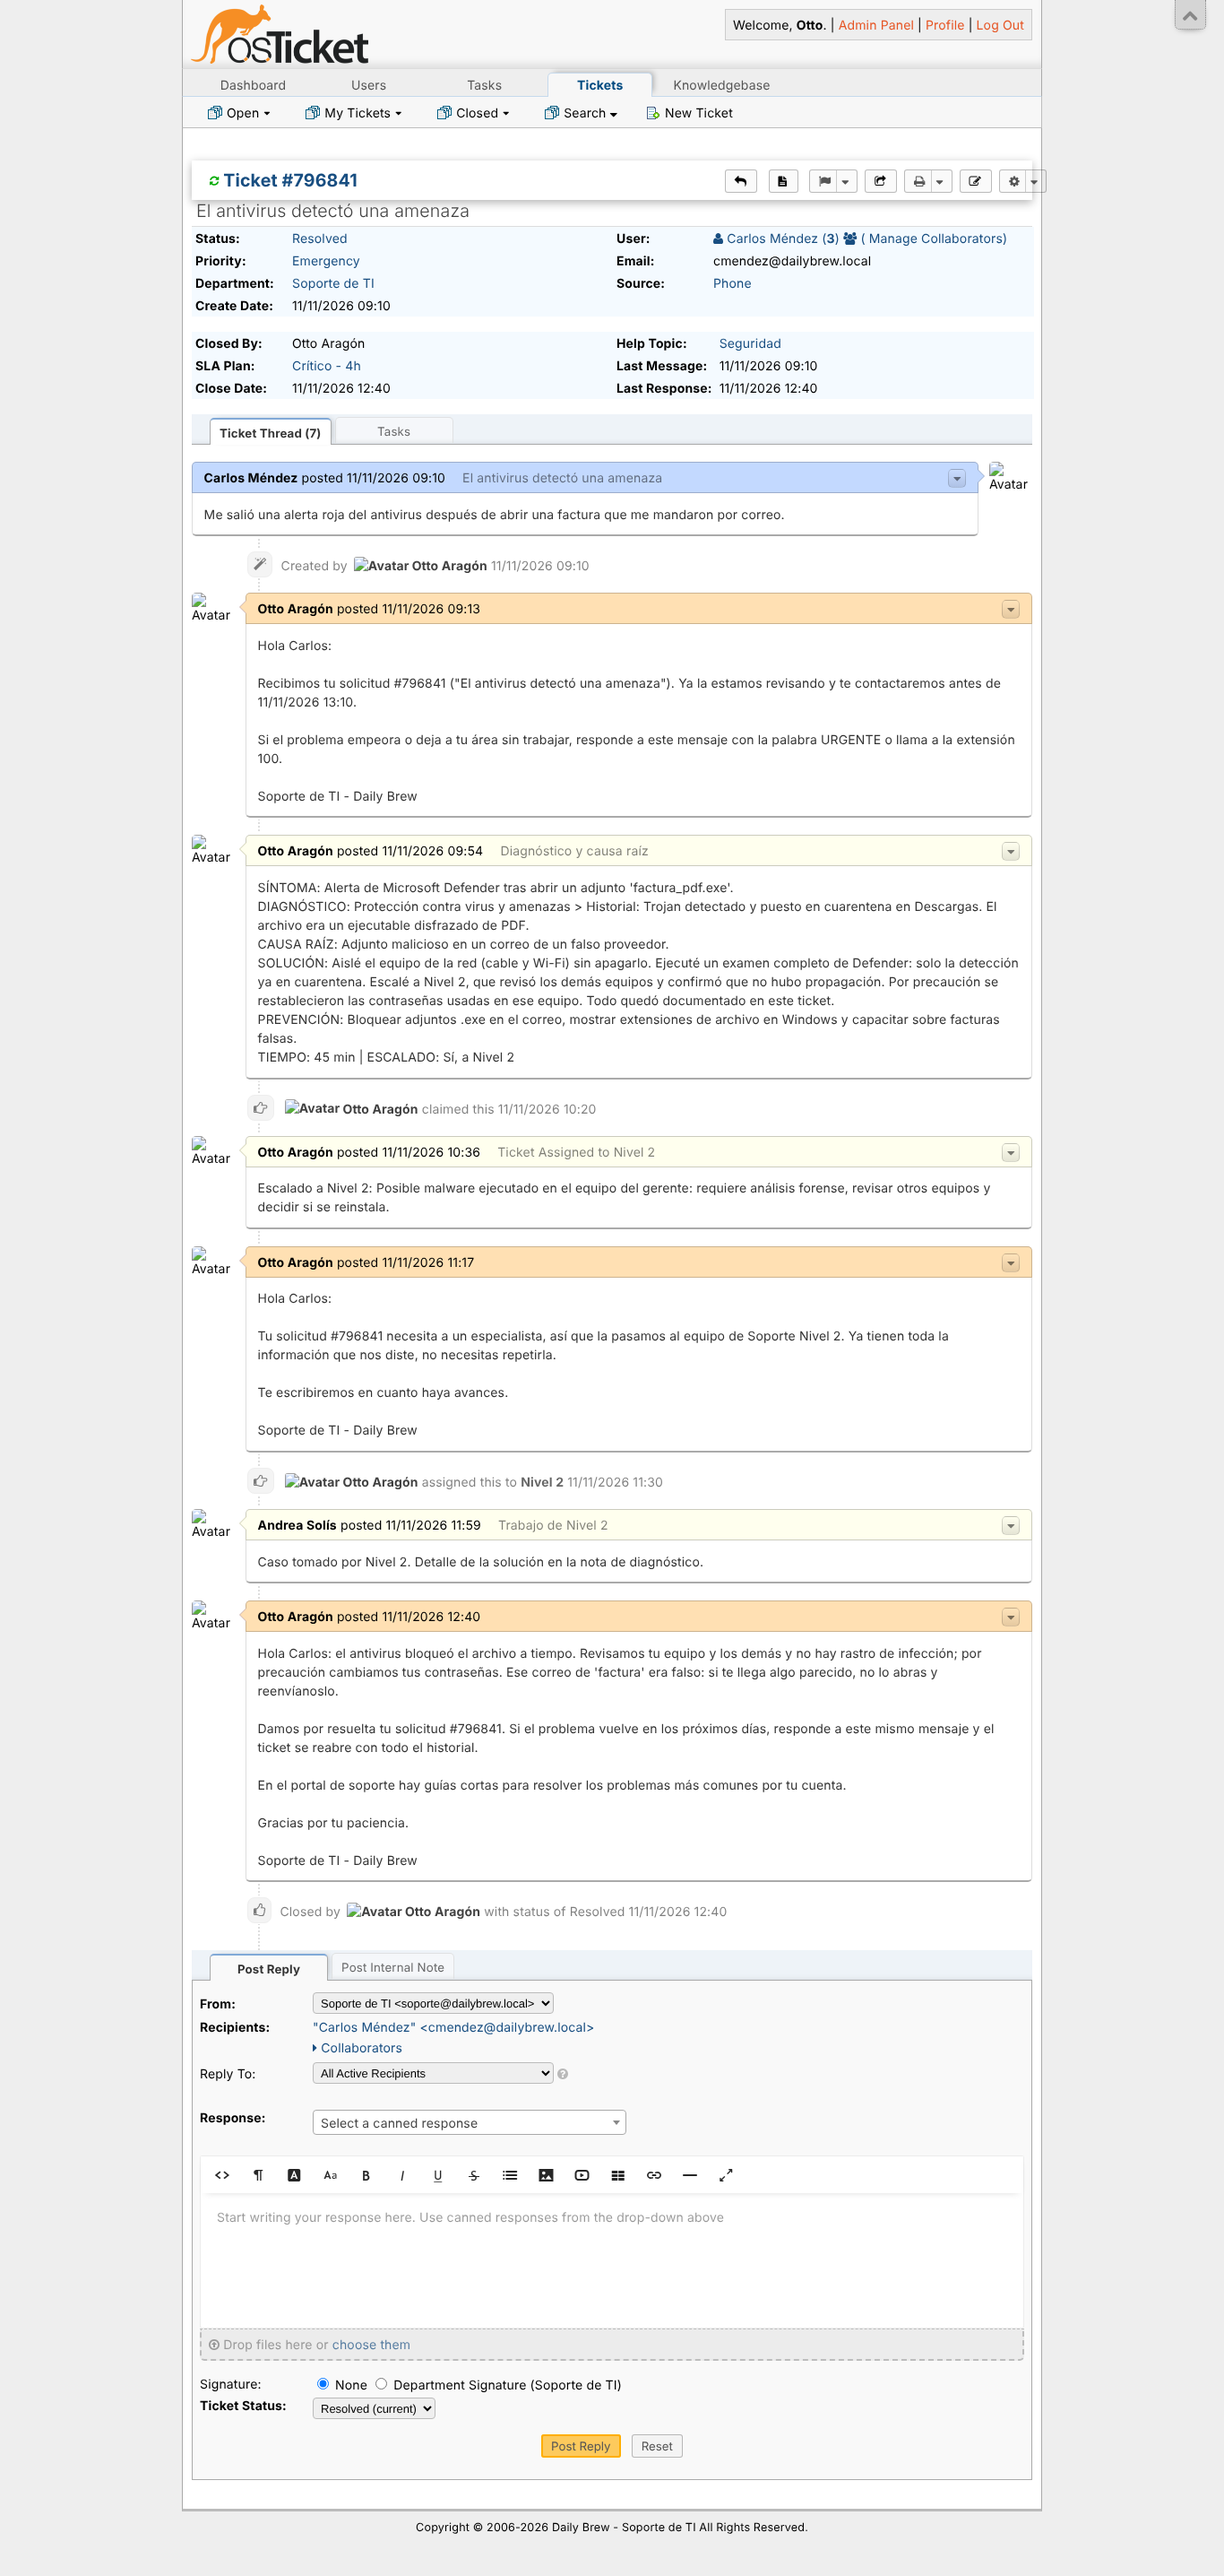
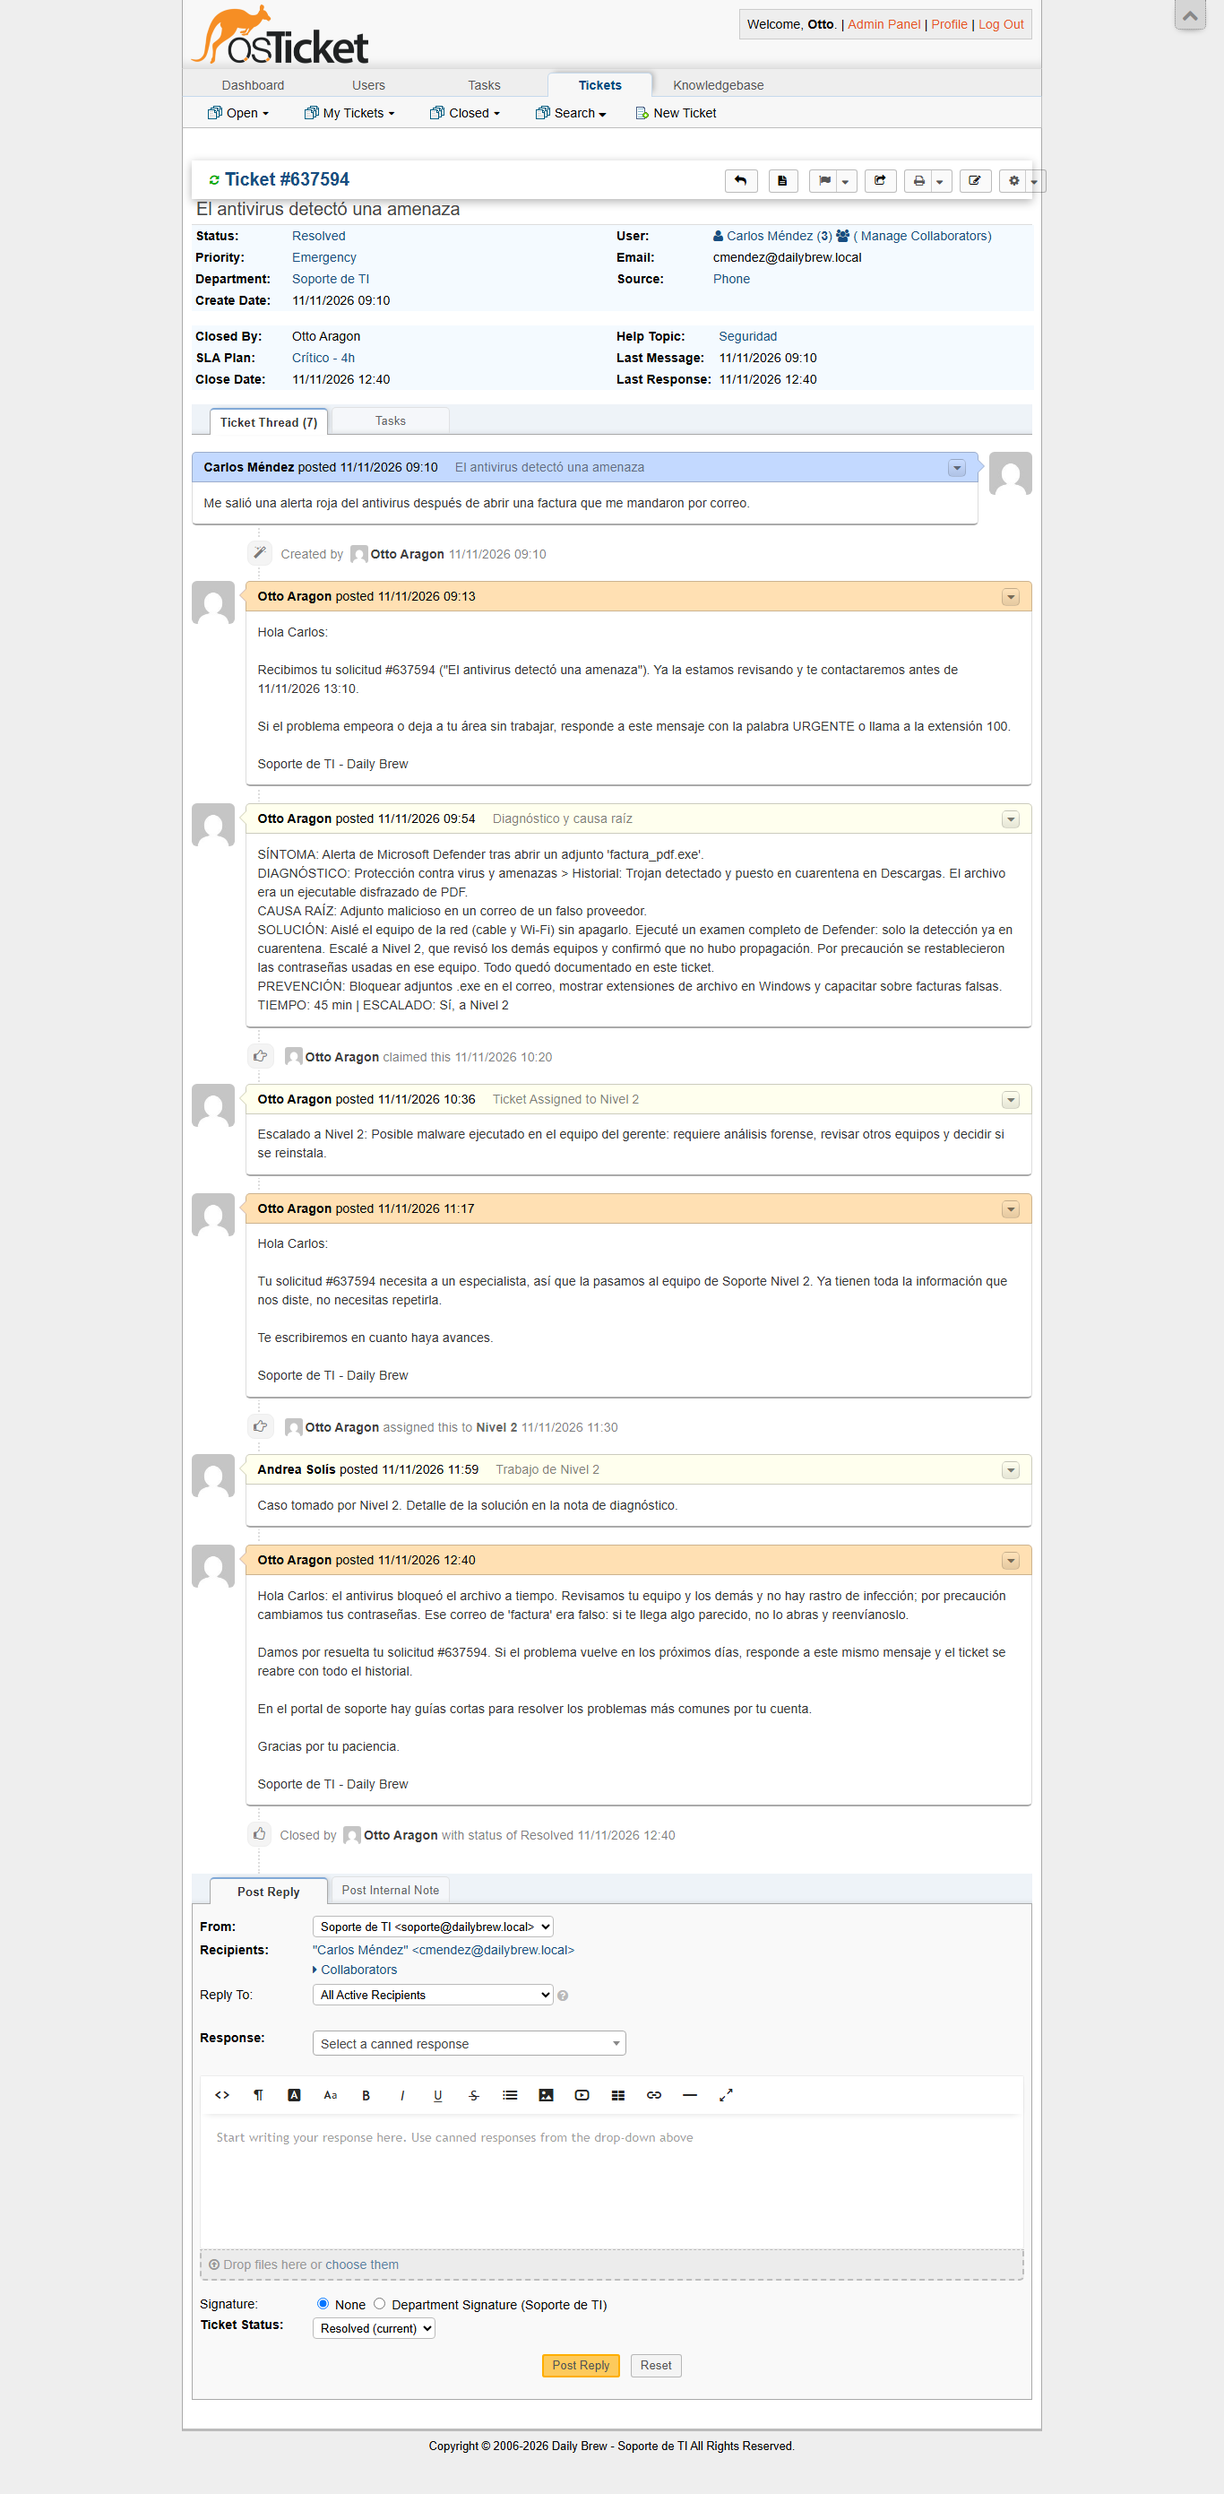
Capturas y métricas de la instalación en mi PC; script para restablecer contraseña de agente

Changed region(s): [[0.1537, 0.0, 0.8609, 0.8656], [0.1537, 0.8965, 0.6457, 0.9892]]

diff --git a/scripts/restablecer-agente.php b/scripts/restablecer-agente.php
@@ -1,0 +1,20 @@
+<?php
+/**
+ * restablecer-agente.php - Cambia la contraseña de un agente de osTicket desde la consola.
+ * La contraseña llega por la variable de entorno OST_NUEVA (nunca como argumento, para que
+ * no quede en el historial). Úsalo a través de scripts/windows/06-restablecer-agente.ps1.
+ * Uso: php restablecer-agente.php C:\xampp\htdocs\osticket otto.admin
+ */
+if (PHP_SAPI !== 'cli') exit(1);
+[$_, $root, $usuario] = $argv + [null, null, null];
+$nueva = getenv('OST_NUEVA');
+if (!$root || !$usuario || !$nueva) { fwrite(STDERR, "Faltan datos.\n"); exit(2); }
+$_SERVER['REMOTE_ADDR'] = '127.0.0.1';
+chdir($root); require "$root/main.inc.php";
+$st = Staff::lookup(['username' => $usuario]);
+if (!$st) { fwrite(STDERR, "No existe el agente $usuario\n"); exit(3); }
+try {
+    $st->setPassword($nueva, null);
+    $st->save();
+    echo "Contraseña de $usuario actualizada.\n";
+} catch (Exception $e) { fwrite(STDERR, 'Error: ' . $e->getMessage() . "\n"); exit(4); }

diff --git a/metricas.md b/metricas.md
@@ -39,26 +39,26 @@
 
 | # | Ticket | Asunto | Tema | Prioridad | SLA | Resolución | SLA cumplido | Escalado |
 |---|---|---|---|---|---|---|---|---|
-| 1 | 405196 | No hay internet en caja | Red e internet | emergency | Crítico - 4h | 2,7 h | Sí | Sí |
-| 2 | 623804 | Olvidé mi contraseña | Cuentas y accesos | normal | Normal - 24h | 12 min | Sí | No |
-| 3 | 676923 | Outlook no recibe correos | Correo y Microsoft 365 | high | Normal - 24h | 1,6 h | Sí | No |
-| 4 | 429996 | La impresora no imprime | Hardware | normal | Normal - 24h | 40 min | Sí | No |
-| 5 | 459588 | Necesito Zoom instalado | Software | low | Baja - 72h | 21,0 h | Sí | No |
-| 6 | 403425 | Laptop muy lenta | Hardware | normal | Normal - 24h | 5,0 h | Sí | No |
-| 7 | 978061 | Cuenta bloqueada | Cuentas y accesos | high | Normal - 24h | 18 min | Sí | No |
-| 8 | 138459 | No puedo abrir un archivo de OneDrive | Correo y Microsoft 365 | normal | Normal - 24h | 1,2 h | Sí | No |
-| 9 | 498163 | La pantalla de la caja no enciende | Hardware | high | Normal - 24h | 30 min | Sí | No |
-| 10 | 933599 | El Wi-Fi de la oficina es lento | Red e internet | normal | Normal - 24h | 27,2 h | **No** | No |
-| 11 | 628797 | Excel se cierra solo | Software | normal | Normal - 24h | 2,0 h | Sí | No |
-| 12 | 708951 | Me llegó un correo raro pidiendo mi clave | Seguridad | high | Crítico - 4h | 2,5 h | Sí | Sí |
-| 13 | 277186 | Cómo comparto una carpeta en Teams | Correo y Microsoft 365 | low | Baja - 72h | 3,3 h | Sí | No |
-| 14 | 856507 | El celular de delivery no carga | Hardware | normal | Normal - 24h | 15 min | Sí | No |
-| 15 | 441941 | Necesito acceso a la carpeta de Inventario | Cuentas y accesos | normal | Normal - 24h | 4,0 h | Sí | No |
-| 16 | 133248 | Windows pide reiniciar por actualizaciones | Software | normal | Normal - 24h | 22,5 h | Sí | No |
-| 17 | 796841 | El antivirus detectó una amenaza | Seguridad | emergency | Crítico - 4h | 3,5 h | Sí | Sí |
-| 18 | 720915 | No me conecto a la VPN | Red e internet | normal | Normal - 24h | 31,0 h | **No** | Sí |
-| 19 | 324443 | Necesito un segundo monitor | Hardware | low | Baja - 72h | 25,0 h | Sí | No |
-| 20 | 103072 | Usuario nuevo: preparar su computadora | Software | normal | Normal - 24h | 7,0 h | Sí | No |
+| 1 | 764345 | No hay internet en caja | Red e internet | emergency | Crítico - 4h | 2,7 h | Sí | Sí |
+| 2 | 697421 | Olvidé mi contraseña | Cuentas y accesos | normal | Normal - 24h | 12 min | Sí | No |
+| 3 | 893268 | Outlook no recibe correos | Correo y Microsoft 365 | high | Normal - 24h | 1,6 h | Sí | No |
+| 4 | 682557 | La impresora no imprime | Hardware | normal | Normal - 24h | 40 min | Sí | No |
+| 5 | 443025 | Necesito Zoom instalado | Software | low | Baja - 72h | 21,0 h | Sí | No |
+| 6 | 301818 | Laptop muy lenta | Hardware | normal | Normal - 24h | 5,0 h | Sí | No |
+| 7 | 342780 | Cuenta bloqueada | Cuentas y accesos | high | Normal - 24h | 18 min | Sí | No |
+| 8 | 585385 | No puedo abrir un archivo de OneDrive | Correo y Microsoft 365 | normal | Normal - 24h | 1,2 h | Sí | No |
+| 9 | 333185 | La pantalla de la caja no enciende | Hardware | high | Normal - 24h | 30 min | Sí | No |
+| 10 | 356358 | El Wi-Fi de la oficina es lento | Red e internet | normal | Normal - 24h | 27,2 h | **No** | No |
+| 11 | 611451 | Excel se cierra solo | Software | normal | Normal - 24h | 2,0 h | Sí | No |
+| 12 | 795920 | Me llegó un correo raro pidiendo mi clave | Seguridad | high | Crítico - 4h | 2,5 h | Sí | Sí |
+| 13 | 486585 | Cómo comparto una carpeta en Teams | Correo y Microsoft 365 | low | Baja - 72h | 3,3 h | Sí | No |
+| 14 | 369735 | El celular de delivery no carga | Hardware | normal | Normal - 24h | 15 min | Sí | No |
+| 15 | 413834 | Necesito acceso a la carpeta de Inventario | Cuentas y accesos | normal | Normal - 24h | 4,0 h | Sí | No |
+| 16 | 320794 | Windows pide reiniciar por actualizaciones | Software | normal | Normal - 24h | 22,5 h | Sí | No |
+| 17 | 637594 | El antivirus detectó una amenaza | Seguridad | emergency | Crítico - 4h | 3,5 h | Sí | Sí |
+| 18 | 439295 | No me conecto a la VPN | Red e internet | normal | Normal - 24h | 31,0 h | **No** | Sí |
+| 19 | 684330 | Necesito un segundo monitor | Hardware | low | Baja - 72h | 25,0 h | Sí | No |
+| 20 | 395118 | Usuario nuevo: preparar su computadora | Software | normal | Normal - 24h | 7,0 h | Sí | No |
 
 ## Tres conclusiones
 

diff --git a/docs/05-mantenimiento.md b/docs/05-mantenimiento.md
@@ -37,3 +37,11 @@ schtasks /Create /TN "osTicket cron" /SC MINUTE /MO 5 /RU SYSTEM `
 3. Reemplazar los archivos excepto `include\ost-config.php`.
 4. Entrar a `/scp`: si hay cambios de base de datos, osTicket pide correr el actualizador.
 5. Borrar la carpeta `setup` de nuevo y comprobar un ticket de prueba.
+
+## Si olvidas la contraseña de un agente
+
+```powershell
+powershell -ExecutionPolicy Bypass -File .\scripts\windows\06-restablecer-agente.ps1 -Usuario otto.admin
+```
+
+Pide la nueva contraseña dos veces en pantalla y la cambia con las clases de osTicket; no queda en el historial de comandos.
